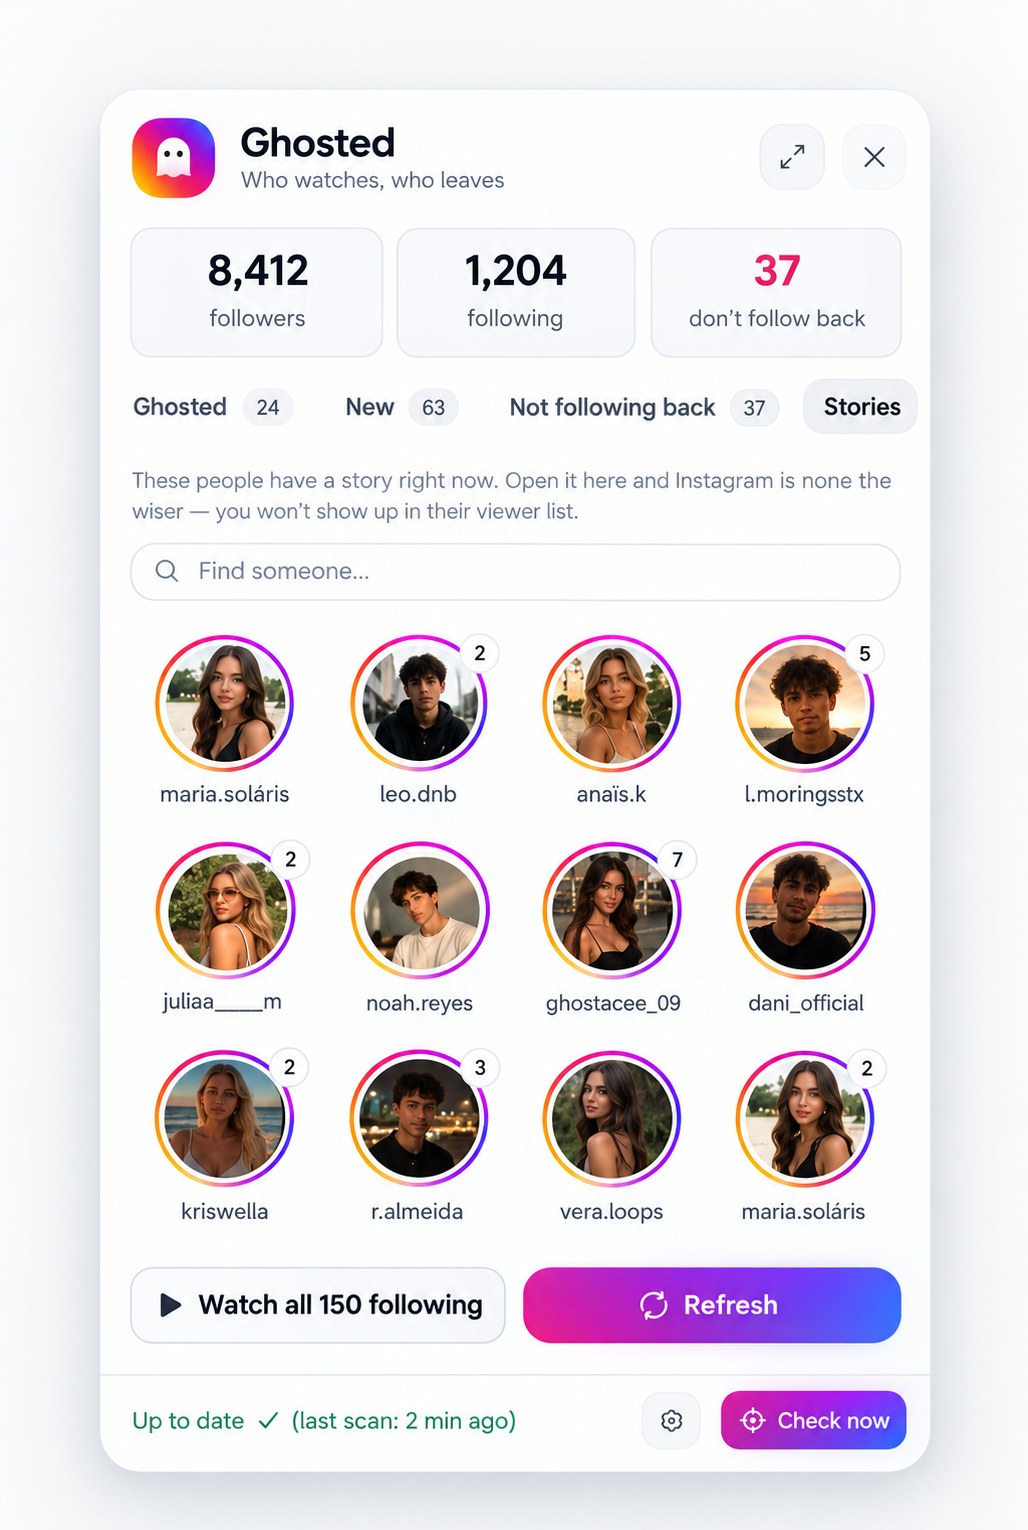
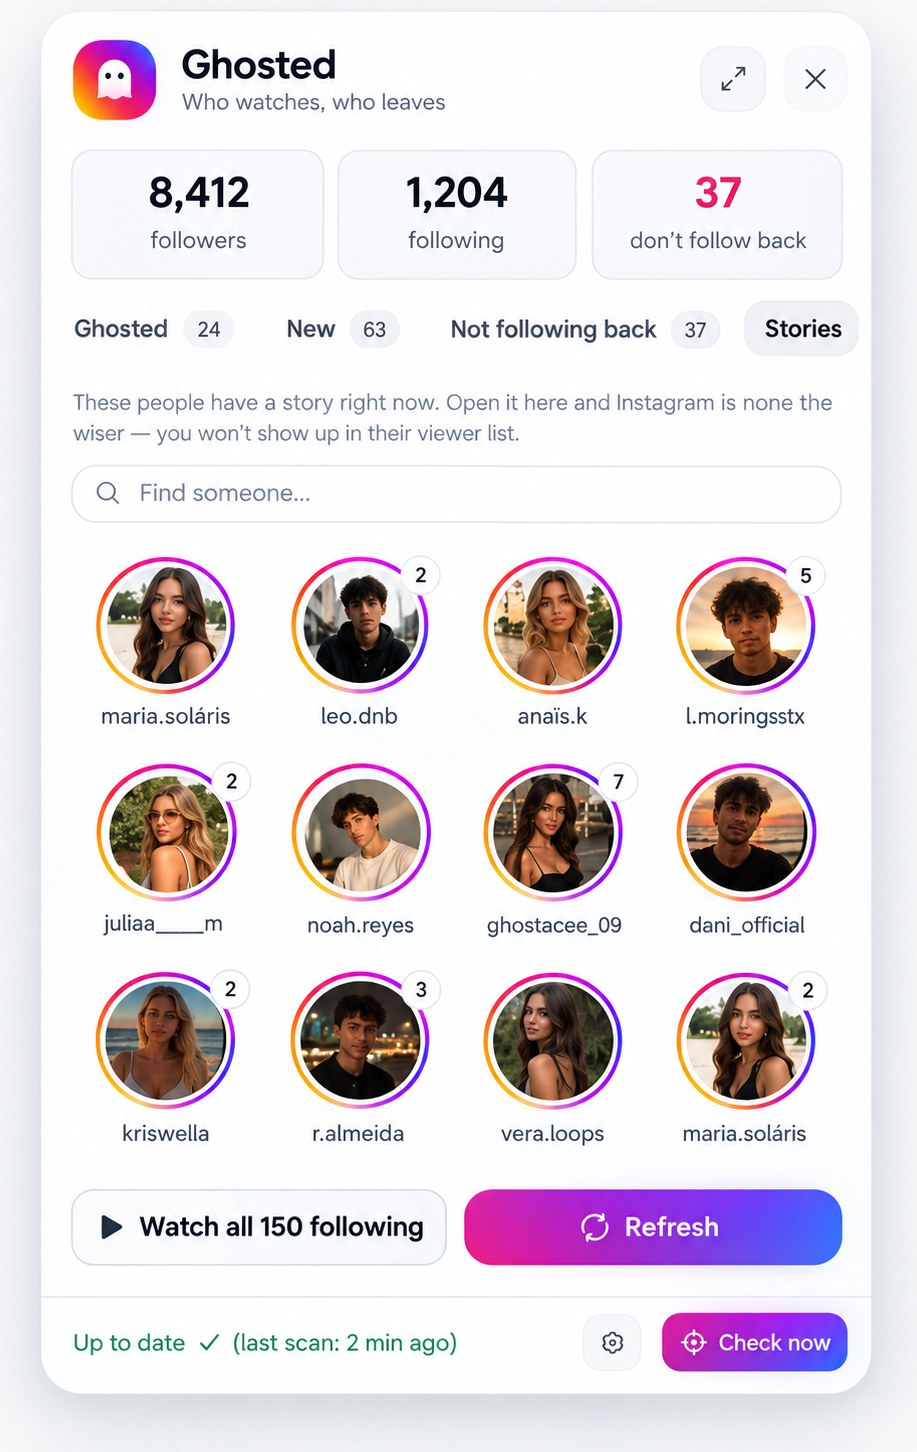
Rejilla: las dos capturas juntas en la fila ancha
Puestas debajo del texto, cada tarjeta pasaba de 137px a 566 y dejaba a las
vecinas como cajas vacias con el texto flotando en medio.

Ahora van AL LADO del texto y las dos en la misma fila, que es la unica con
sitio: en una tarjeta de un tercio de ancho el texto se quedaba en 169px.
Las filas pasan de 183/566/545 a 183/218/158.

Solicitudes va recortada al boton y dos filas en vez del panel entero: a
260px de ancho el panel completo no se lee.

Changed region(s): [[0.0611, 0.0, 0.8855, 0.9607], [0.1527, 0.186, 0.9466, 0.9607]]

diff --git a/Ghosted-Landing/styles.css b/Ghosted-Landing/styles.css
@@ -329,14 +329,30 @@ img,svg{display:block;max-width:100%}
 .fb-row3{grid-column:span 3;display:grid;grid-template-columns:repeat(3,1fr);gap:16px}
 .fb-row2{grid-column:span 3;display:grid;grid-template-columns:repeat(2,1fr);gap:16px}
 .fb-tile-flat{border-radius:var(--r-lg);background:var(--bg-2);padding:28px;display:flex;align-items:center}
-/* Las dos tarjetas que llevan captura del panel. El texto arriba y la imagen
-   debajo, recortada por la parte de abajo: lo que identifica cada funcion
-   esta en la mitad superior del panel (cabecera, contadores y pestanas), asi
-   que se ancla arriba y se deja caer el resto. */
-.fb-tile-shot{flex-direction:column;align-items:stretch;gap:20px}
-.fb-shot{border-radius:14px;overflow:hidden;background:#0B0A09;aspect-ratio:4/5;max-height:430px}
-.fb-shot img{width:100%;height:100%;object-fit:cover;object-position:top center;display:block}
-@media (max-width:720px){.fb-shot{aspect-ratio:1/1;max-height:340px}}
+/* Las dos tarjetas que llevan captura del panel.
+   El panel es vertical y la rejilla es horizontal: puesto entero disparaba la
+   fila a 566px y dejaba a las tarjetas vecinas como cajas vacias con el texto
+   flotando en medio. Va como una franja corta, con la misma proporcion que las
+   otras dos capturas de esta rejilla.
+   Y anclada al CENTRO, no arriba: lo que identifica estas dos funciones esta
+   en mitad del panel (las caras con anillo en historias, las filas de aceptar
+   y rechazar en solicitudes). La cabecera no dice nada que no diga el titulo. */
+.fb-tile-shot{flex-direction:column;align-items:stretch;justify-content:flex-start;gap:16px}
+.fb-shot{border-radius:14px;overflow:hidden;background:#0B0A09;aspect-ratio:16/9;flex:none}
+.fb-shot img{width:100%;height:100%;object-fit:cover;object-position:center;display:block}
+/* Al lado del texto, no debajo: debajo disparaba la fila entera y dejaba a
+   las tarjetas vecinas como cajas vacias con el texto flotando en medio.
+   Asi cada tarjeta crece de 137 a poco mas de 200 y la rejilla sigue pareja. */
+@media (min-width:900px){
+  .fb-tile-shot{flex-direction:row;align-items:center;gap:22px}
+  .fb-tile-shot > div:first-child{flex:1 1 46%;min-width:0}
+  .fb-shot{flex:1 1 54%}
+  /* Historias enseña el panel entero — las caras con anillo se reconocen.
+     Solicitudes va recortada al boton y dos filas: el panel completo no
+     aporta nada aqui y el detalle se lee mejor. */
+  .fb-tile-shot .fb-shot{aspect-ratio:16/10}
+  .fb-tile-shot:last-child .fb-shot{aspect-ratio:855/530}
+}
 .fb-tile-flat h3{font-family:var(--display);font-size:21px;font-weight:500;letter-spacing:-.03em;color:var(--ink);margin:0 0 6px}
 .fb-tile-flat p{font-size:14px;line-height:1.5;color:var(--ink-2);margin:0}
 

diff --git a/Ghosted-Landing/index.html b/Ghosted-Landing/index.html
@@ -78,7 +78,7 @@
   <!-- Self-hosted (GDPR: no visitor IP ever reaches Google Fonts or a CDN — cf. LG München I, 3 O 17493/20) -->
   <link rel="stylesheet" href="assets/fonts/inter.css?v=1">
   <link rel="stylesheet" href="assets/flags/flag-icons.min.css?v=1">
-  <link rel="stylesheet" href="styles.css?v=85">
+  <link rel="stylesheet" href="styles.css?v=89">
 </head>
 <body id="top">
   <div class="grain" aria-hidden="true"></div>
@@ -210,11 +210,13 @@
 
       <div class="fb-row2">
         <div class="fb-tile-flat fb-tile-shot"><div><h3 data-i18n="fx_ghost_t">Ghost mode</h3><p data-i18n="fx_ghost_d">Opens stories without registering a view. Depends on Instagram.</p></div><div class="fb-shot"><img src="assets/shots/stories.jpg?v=1" alt="Ghoosted panel showing the stories tab" width="1028" height="1530" loading="lazy" decoding="async"></div></div>
-        <div class="fb-tile-flat"><div><h3 data-i18n="fx_history_t">Your own stories, kept</h3><p data-i18n="fx_history_d">Your stories stay archived with who watched them, long after Instagram forgets.</p></div></div>
+        <div class="fb-tile-flat fb-tile-shot"><div><h3 data-i18n="fx_requests_t">Follow requests, handled</h3><p data-i18n="fx_requests_d">One by one, or automatically for people you already follow. Never declines anyone.</p></div><div class="fb-shot"><img src="assets/shots/requests.jpg?v=2" alt="Ghoosted panel showing follow requests" width="1068" height="1472" loading="lazy" decoding="async"></div></div>
+        
       </div>
 
       <div class="fb-row3">
-        <div class="fb-tile-flat fb-tile-shot"><div><h3 data-i18n="fx_requests_t">Follow requests, handled</h3><p data-i18n="fx_requests_d">One by one, or automatically for people you already follow. Never declines anyone.</p></div><div class="fb-shot"><img src="assets/shots/requests.jpg?v=1" alt="Ghoosted panel showing follow requests" width="1068" height="1472" loading="lazy" decoding="async"></div></div>
+        <div class="fb-tile-flat"><div><h3 data-i18n="fx_history_t">Your own stories, kept</h3><p data-i18n="fx_history_d">Your stories stay archived with who watched them, long after Instagram forgets.</p></div></div>
+        
         <div class="fb-tile-flat"><div><h3 data-i18n="fx_changes_t">Every change, logged</h3><p data-i18n="fx_changes_d">Photo, name, username and bio. Tap a photo change to see old and new side by side.</p></div></div>
         <div class="fb-tile-flat"><div><h3 data-i18n="fx_dossier_t">The full dossier</h3><p data-i18n="fx_dossier_d">HD photo, posts, highlights, follower graph and everything they changed.</p></div></div>
       </div>
